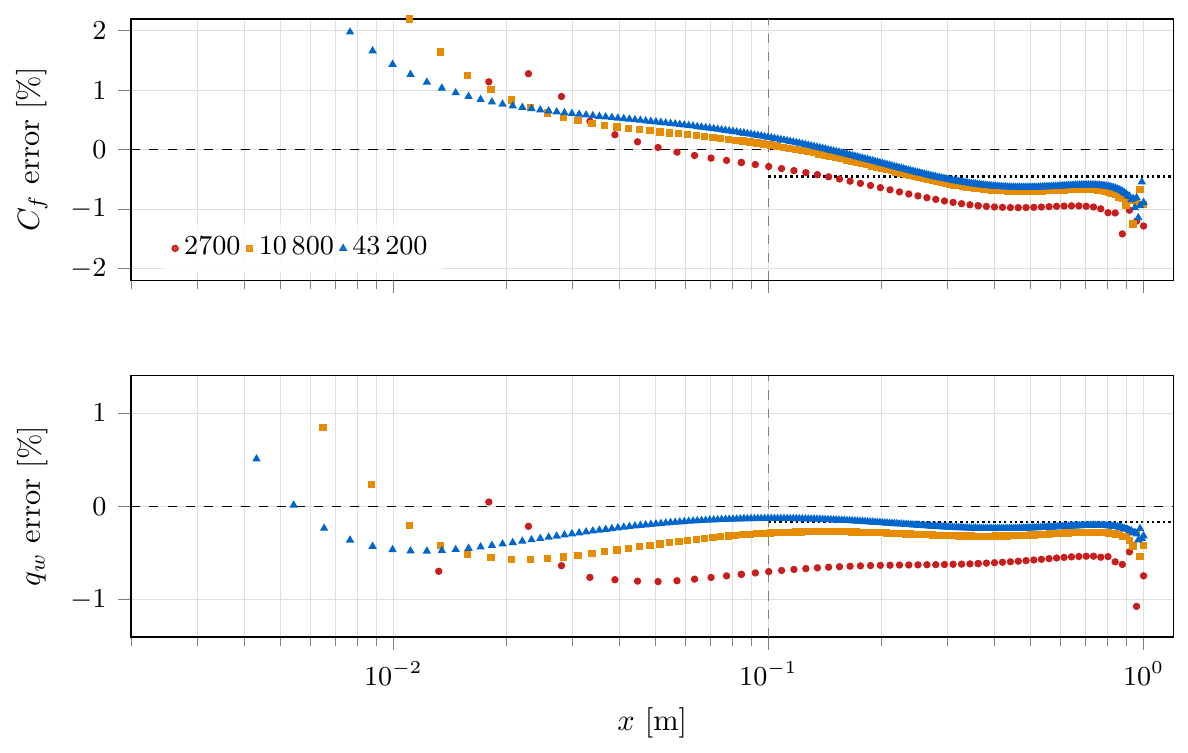
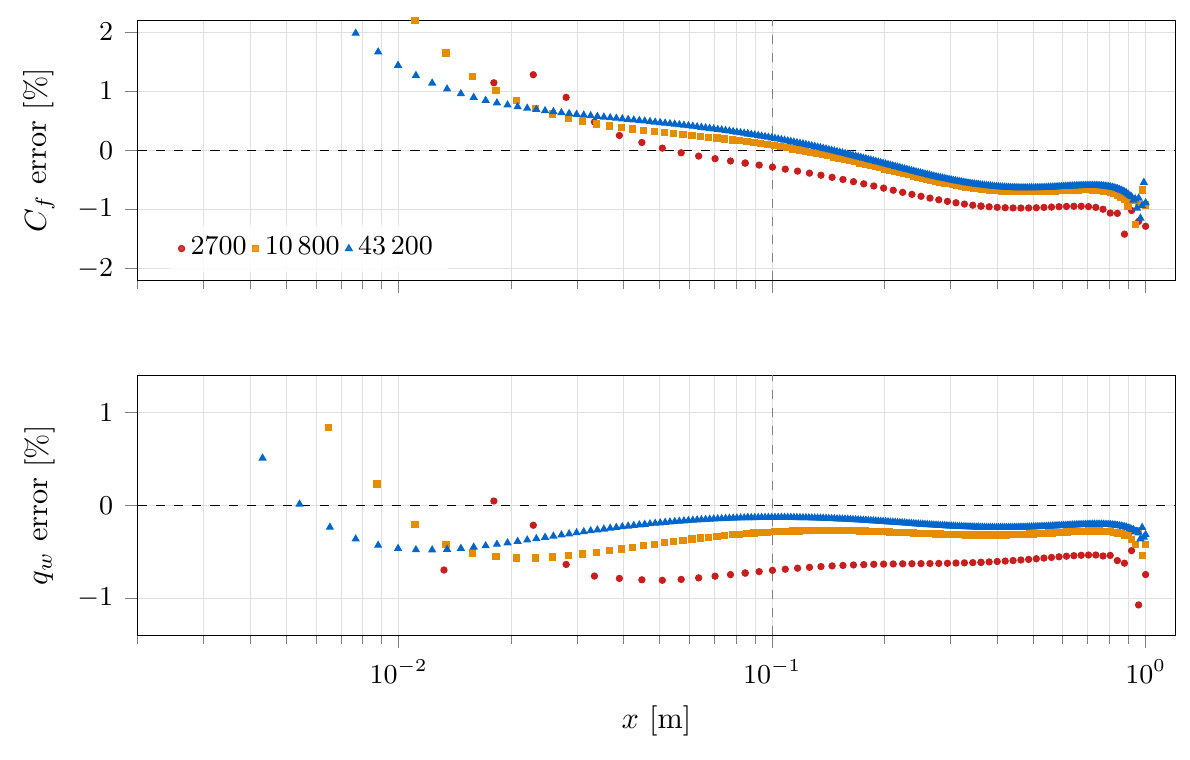
Remove the extrapolated line from the convergence figure

diff --git a/_portfolio/fluent-flat-plate.md b/_portfolio/fluent-flat-plate.md
@@ -163,13 +163,12 @@ and a finer mesh, with half and twice the cells in each direction and the same g
 | Results above | $$(120 + 60) \times 60 = 10{,}800$$ | $$2.0 \times 10^{-4}$$ m |
 | Finer | $$(240 + 120) \times 120 = 43{,}200$$ | $$1.0 \times 10^{-4}$$ m |
 
-With each refinement, the error curves come closer (Figure 6), but they approach about
-$$-0.45\%$$ for $$C_f$$ and $$-0.17\%$$ for $$q_w$$, not zero.
+With each refinement, the error curves move less (Figure 6). They settle at a small error that is
+not zero; the extrapolation below finds where.
 
 ![Mesh convergence along the plate](/images/flatplate/flatplate_convergence.png)
 
-*Error in $$C_f$$ and $$q_w$$ along the plate on the three meshes, labeled by cell count. Dotted:
-the average error over $$x \ge 0.1$$, extrapolated to zero cell size.*
+*Error in $$C_f$$ and $$q_w$$ along the plate on the three meshes, labeled by cell count.*
 {: .caption}
 
 **Richardson extrapolation [4, 5].** The error on a mesh with cell size $$h$$ is modeled as
